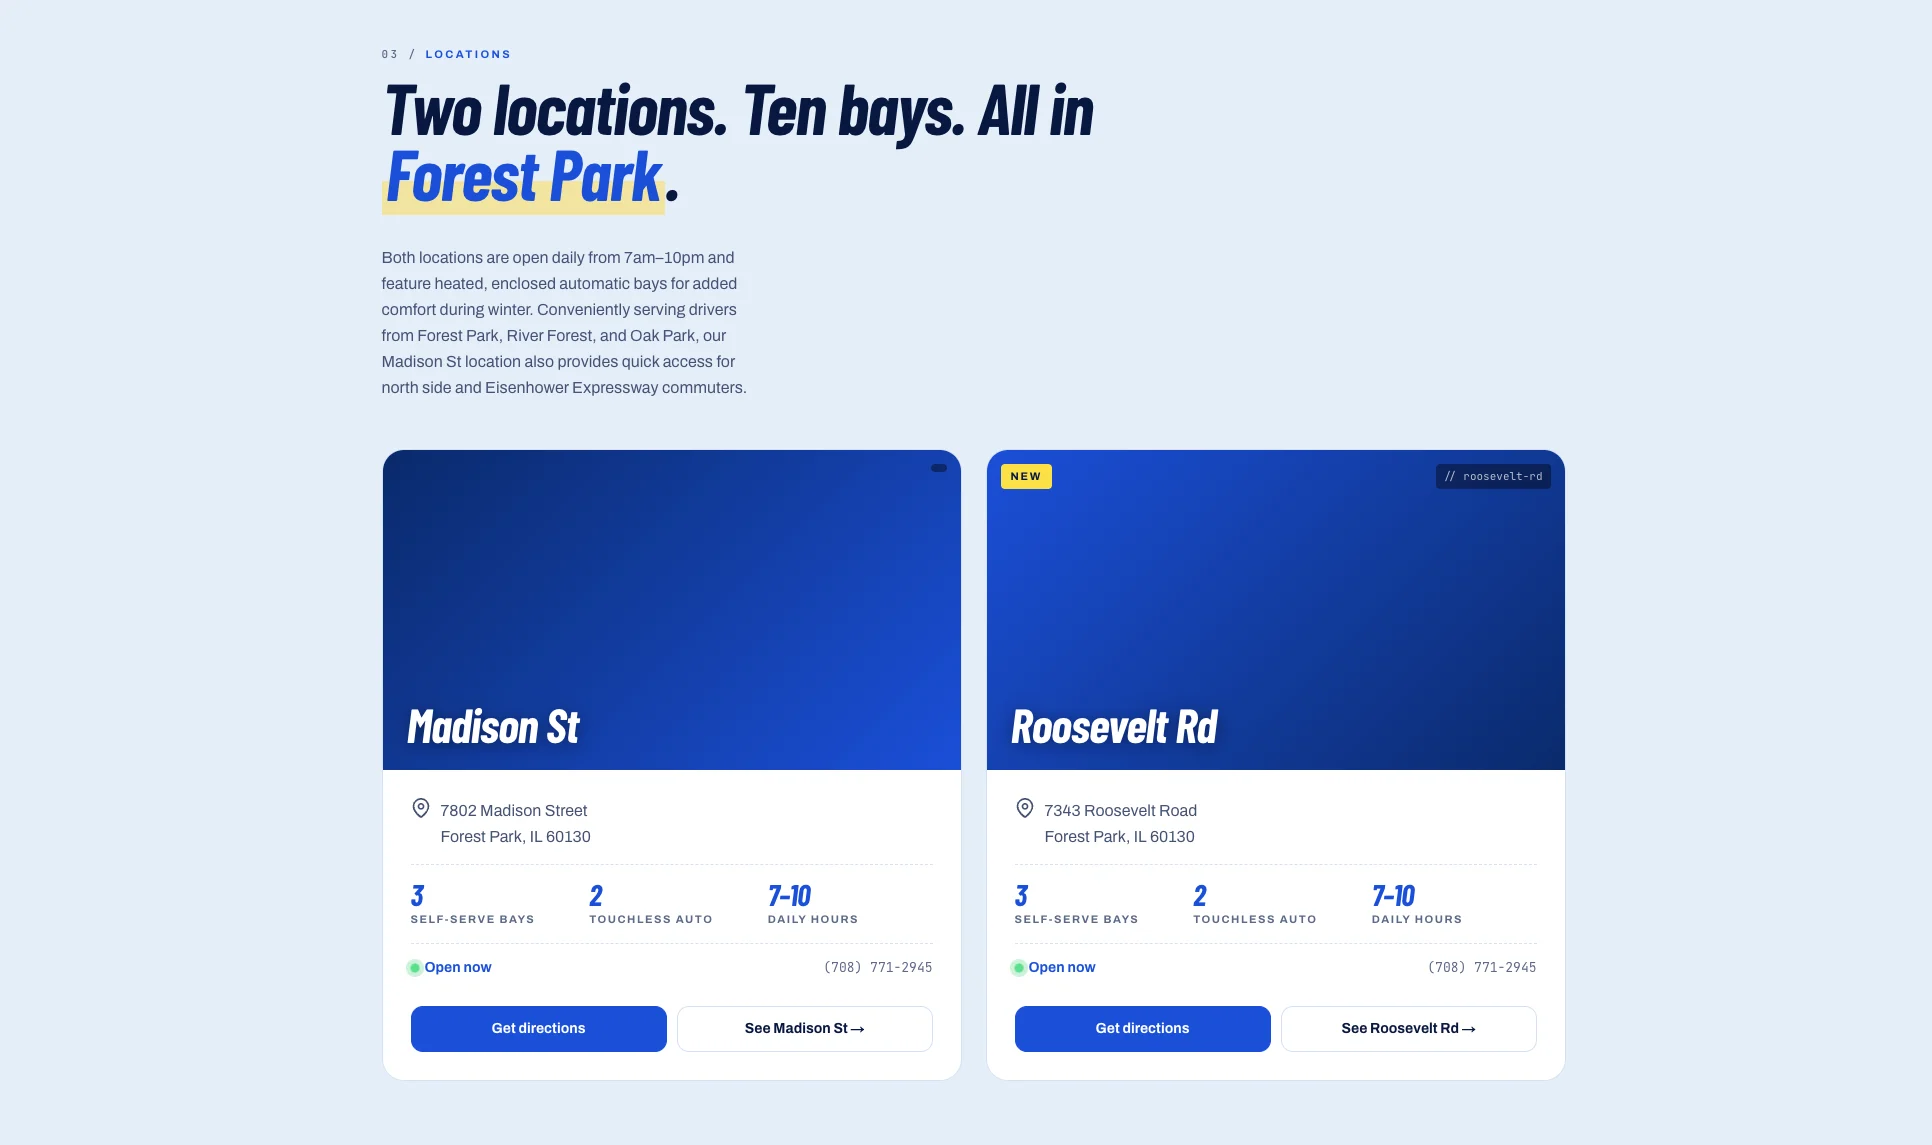
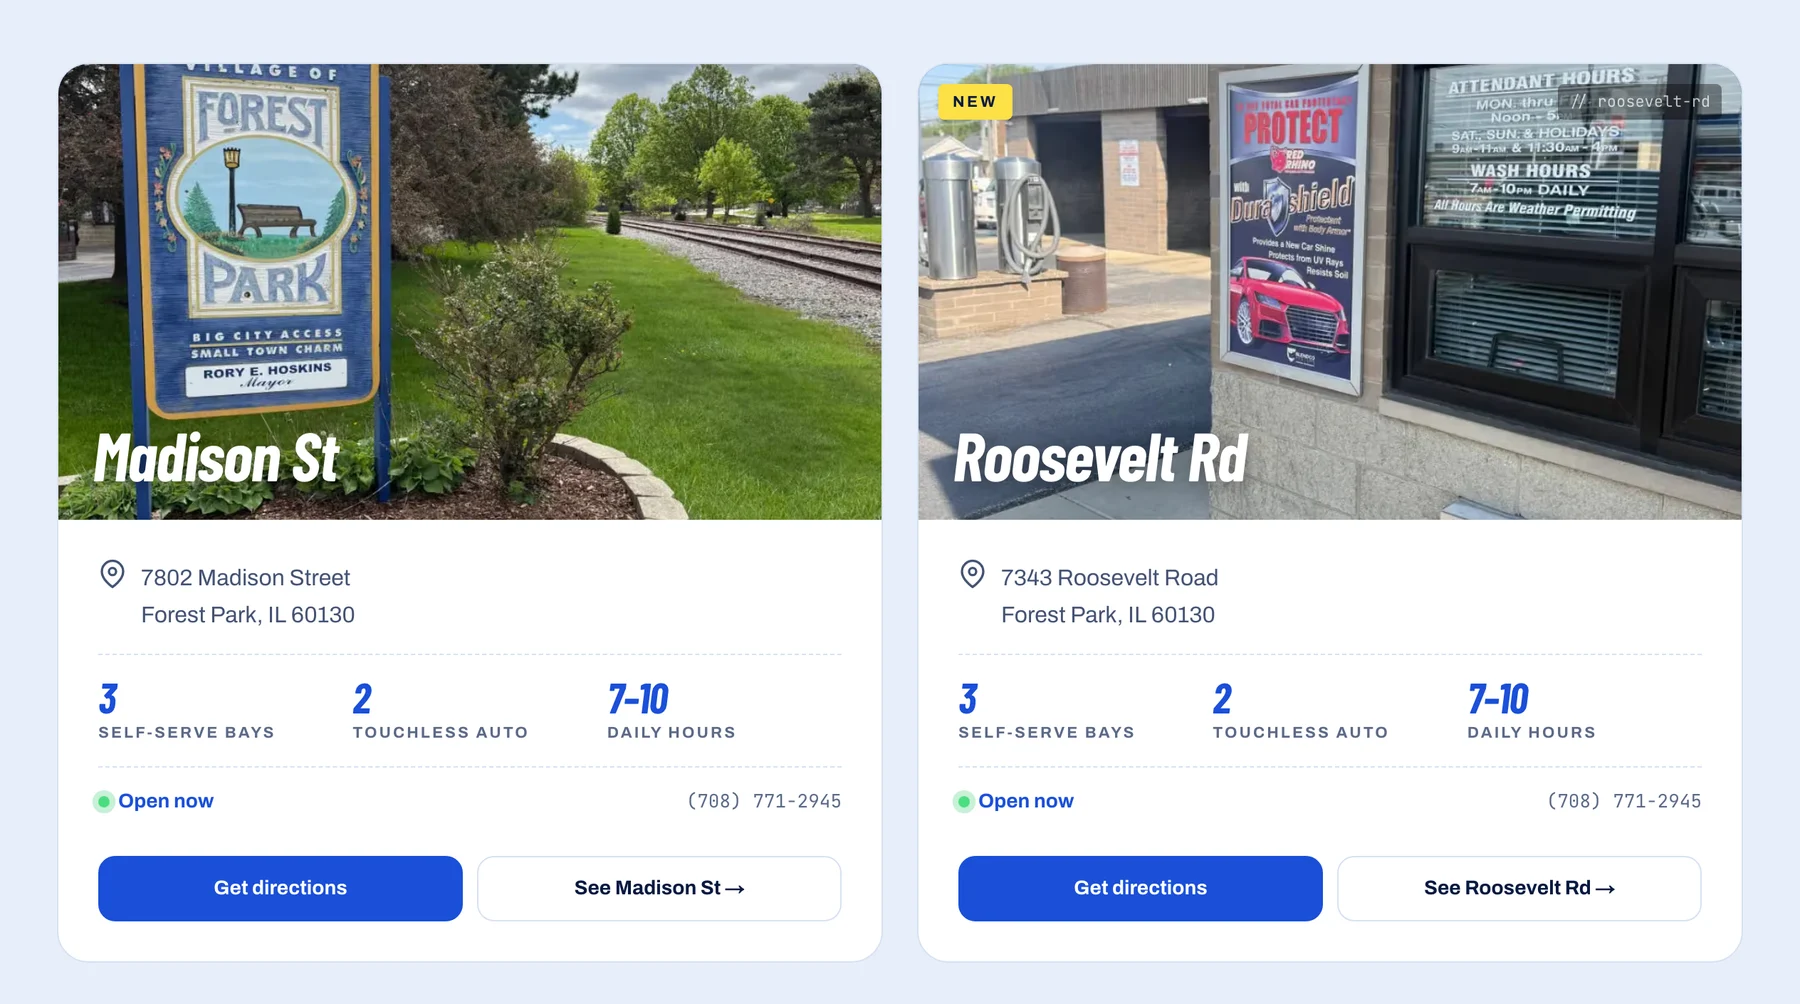
fix: Spotless locations shot and full-page buy-tokens lightbox
- Re-cut the locations gallery image from a capture where the location
  photos had loaded.
- Gallery items can carry an optional full-page capture; the buy-tokens
  screen now opens the whole page, scrollable, in the lightbox.

diff --git a/src/app/work/projects.ts b/src/app/work/projects.ts
@@ -1,8 +1,12 @@
 export interface ProjectResult  { num: string; lbl: string }
-export interface GalleryItem    { bg: string; label: string; size: 'wide' | 'standard'; src?: string }
 export interface ProcessStep    { period: string; title: string; body: string }
 export interface FullImage      { src: string; width: number; height: number }
 export interface PageCapture    extends FullImage { label: string }
+export interface GalleryItem {
+  bg: string; label: string; size: 'wide' | 'standard'; src?: string
+  /** Opens this full-page capture in the lightbox instead of the cropped thumbnail. */
+  fullPage?: FullImage
+}
 export interface Comparison     { label: string; before: FullImage; after: FullImage; beforeNote?: string; afterNote?: string }
 
 export interface Project {
@@ -304,7 +308,8 @@ const PROJECTS: Project[] = [
     },
     gallery: [
       { bg: '#1d4ed8', src: '/images/projects/spotless/hero.webp',            label: 'Homepage hero with the bay-signal card', size: 'wide' },
-      { bg: '#1d4ed8', src: '/images/projects/spotless/buy-tokens.webp',      label: 'Wash-token checkout with Stripe', size: 'standard' },
+      { bg: '#1d4ed8', src: '/images/projects/spotless/buy-tokens.webp',      label: 'Wash-token checkout with Stripe', size: 'standard',
+        fullPage: { src: '/images/projects/spotless/pages/buy-tokens.webp', width: 1600, height: 2949 } },
       { bg: '#f3f6fb', src: '/images/projects/spotless/packages.webp',        label: 'Four color-coded wash packages', size: 'standard' },
       { bg: '#0b1b4d', src: '/images/projects/spotless/how-it-works.webp',    label: 'How it works: watch the lights', size: 'standard' },
       { bg: '#e6edf8', src: '/images/projects/spotless/locations.webp',       label: 'Two locations, ten bays', size: 'standard' },

diff --git a/src/app/work/[slug]/ProjectGallery.tsx b/src/app/work/[slug]/ProjectGallery.tsx
@@ -5,9 +5,18 @@ import type { GalleryItem } from '../projects';
 import Lightbox, { useLightbox, type LightboxItem } from './Lightbox';
 import styles from './centerpointProject.module.css';
 
-/** Gallery entries that can open in the lightbox; placeholders stay inert. */
-export function viewableItems(gallery: GalleryItem[]): LightboxItem[] {
-  return gallery.flatMap((g) => (g.src ? [{ src: g.src, label: g.label }] : []));
+/**
+ * Gallery entries that can open in the lightbox; placeholders stay inert.
+ * `thumb` keeps the grid image so a click can find its lightbox entry even
+ * when that entry shows a full-page capture instead.
+ */
+export function viewableItems(gallery: GalleryItem[]): (LightboxItem & { thumb: string })[] {
+  return gallery.flatMap((g) => {
+    if (!g.src) return [];
+    return [g.fullPage
+      ? { thumb: g.src, src: g.fullPage.src, label: `${g.label} — full page`, fullPage: g.fullPage }
+      : { thumb: g.src, src: g.src, label: g.label }];
+  });
 }
 
 function Thumb({ img, className, onOpen }: { img: GalleryItem; className: string; onOpen?: () => void }) {
@@ -35,7 +44,7 @@ export default function ProjectGallery({ gallery }: { gallery: GalleryItem[] }) 
     <>
       <div className={styles.galleryGrid}>
         {gallery.map((img, i) => (
-          <Thumb key={i} img={img} onOpen={() => lb.open(items.findIndex((it) => it.src === img.src))}
+          <Thumb key={i} img={img} onOpen={() => lb.open(items.findIndex((it) => it.thumb === img.src))}
             // Odd count: the first screen spans the row so the grid ends even.
             className={`${styles.galleryImg} ${i === 0 && gallery.length % 2 === 1 ? styles.galleryImgSpan : ''}`} />
         ))}

diff --git a/src/app/work/[slug]/HeroImage.tsx b/src/app/work/[slug]/HeroImage.tsx
@@ -19,7 +19,7 @@ export default function HeroImage({ src, alt, gallery, pages }: {
 }) {
   const fromGallery = viewableItems(gallery);
   const hasPages = !!pages && pages.length > 0;
-  const at = hasPages ? -1 : fromGallery.findIndex((it) => it.src === src);
+  const at = hasPages ? -1 : fromGallery.findIndex((it) => it.thumb === src);
   const items: LightboxItem[] = hasPages
     ? pages!.map((p) => ({ src: p.src, label: `${p.label} — full page`, fullPage: { width: p.width, height: p.height } }))
     : at >= 0 ? fromGallery : [{ src, label: alt }];
